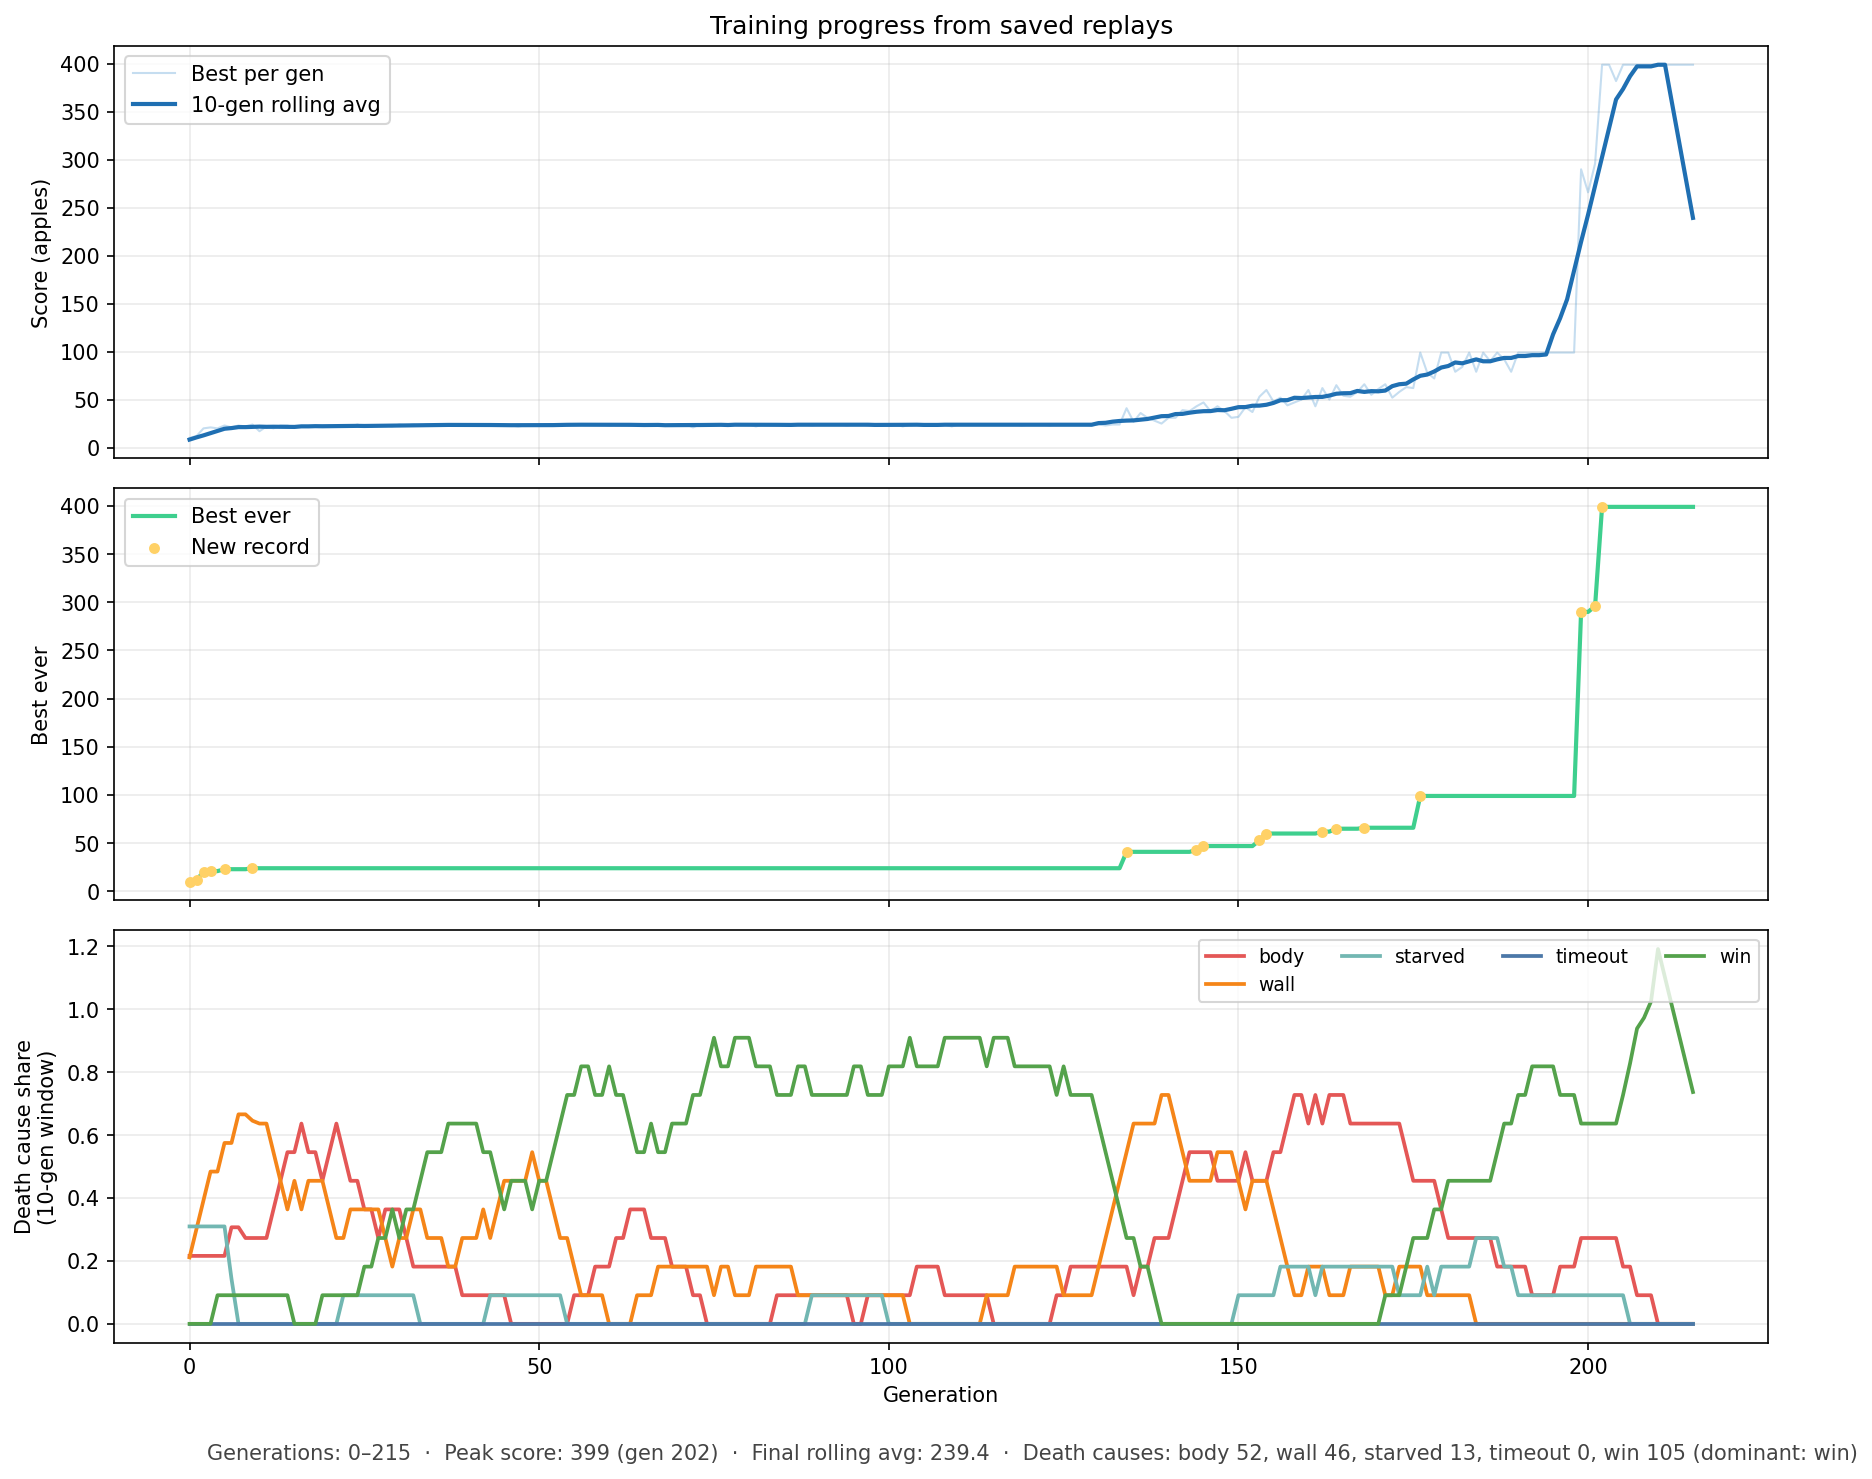
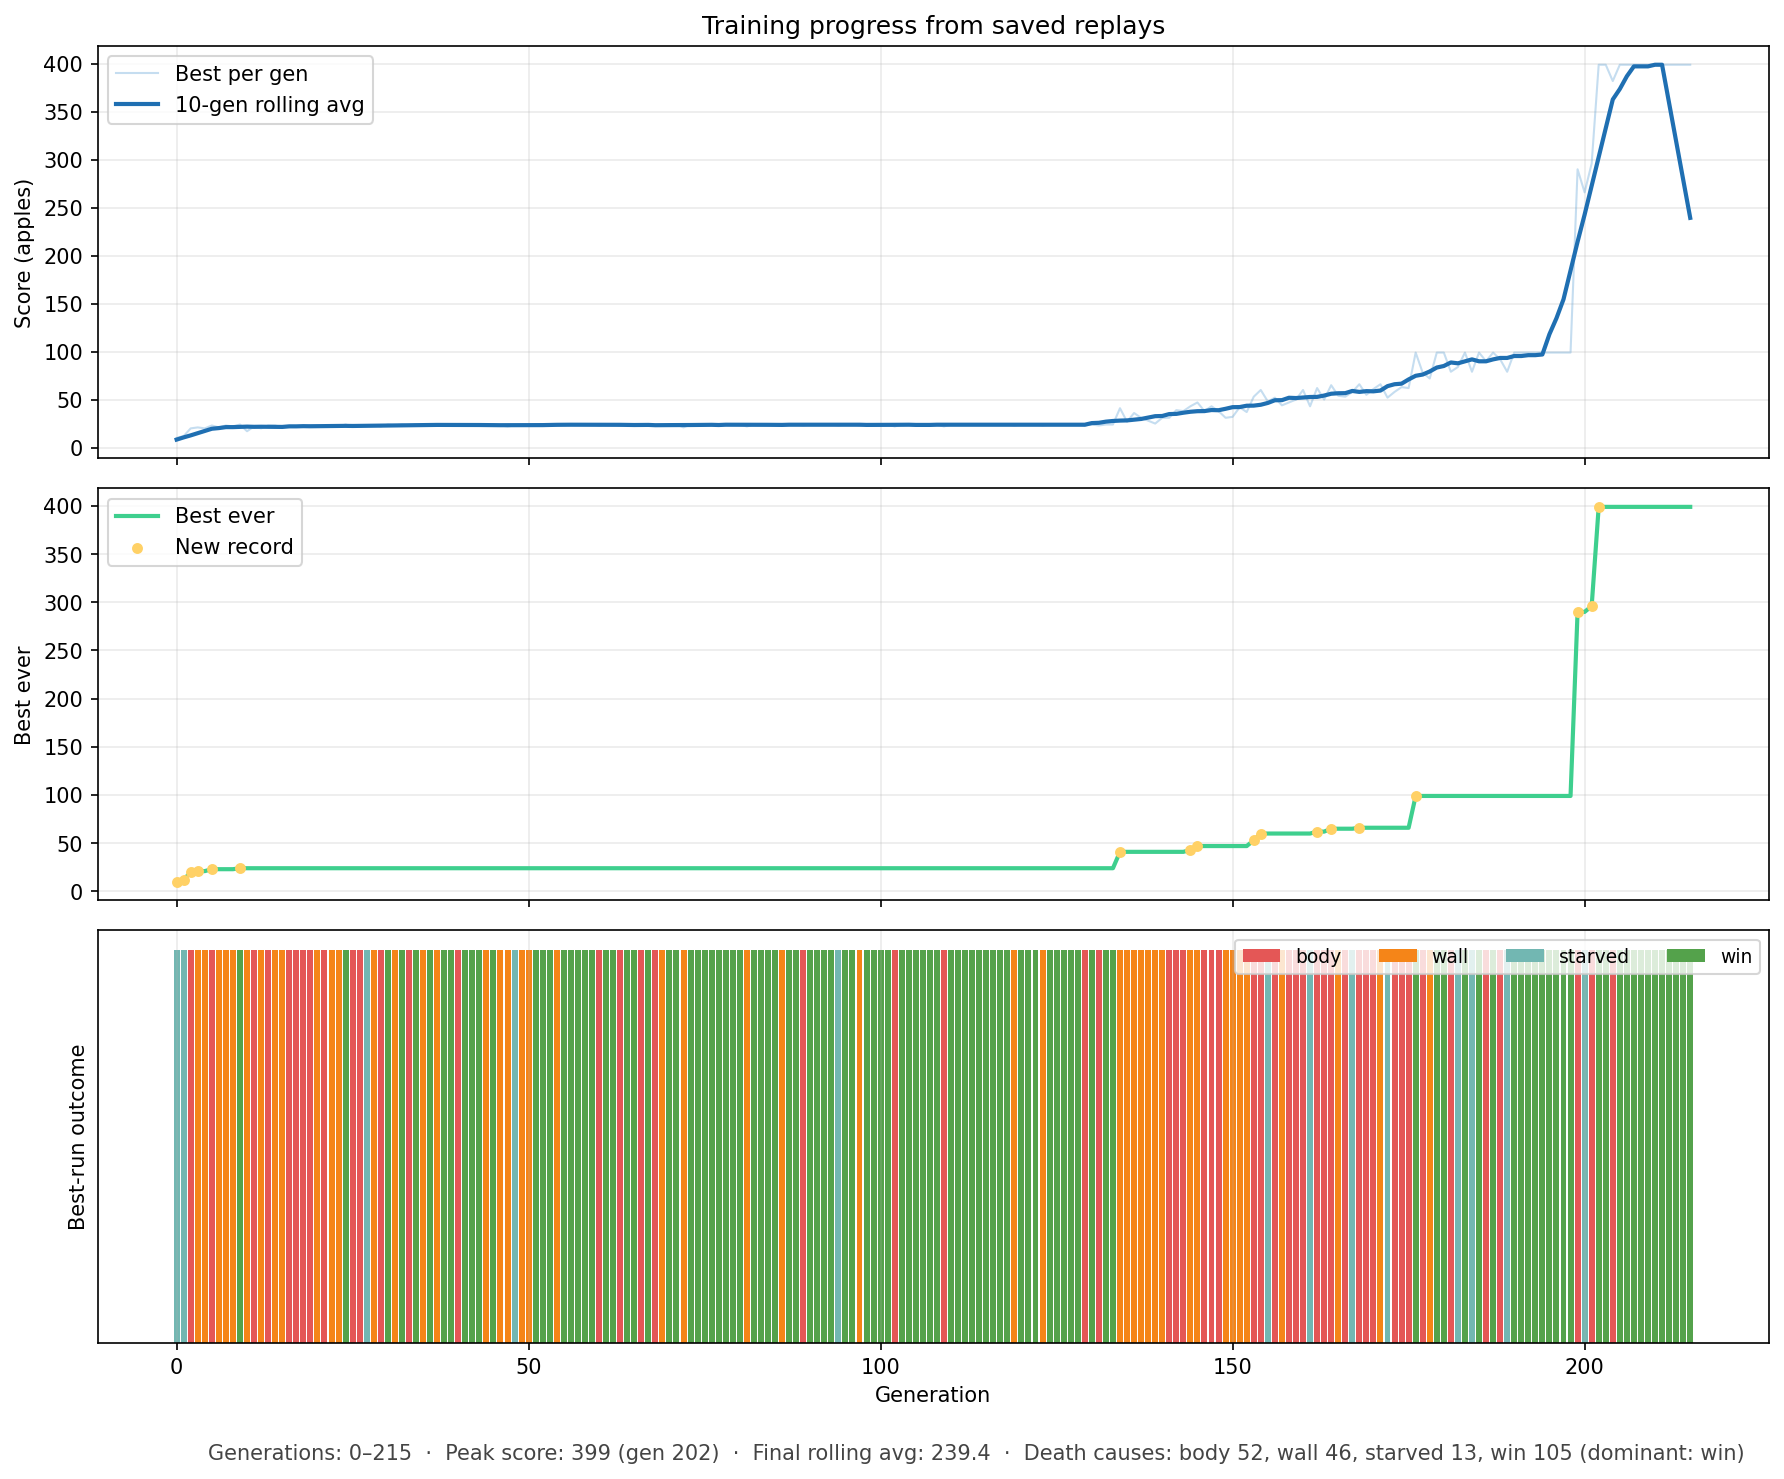
Replace death-cause rolling chart with per-generation bars and drop timeout.
Chart each generation with a color by best-run outcome, map legacy timeout to starved, and remove timeout from DeathCause and training UI.

diff --git a/site/src/sections/results.ts b/site/src/sections/results.ts
@@ -30,7 +30,7 @@ export function renderResults(container: HTMLElement, metrics: MetricRow[]): voi
         )
         .join("")}
     </div>
-    <img class="results-chart" src="data/training_chart.png" alt="Training progress chart showing best score by generation" />
+    <img class="results-chart" src="data/training_chart.png" alt="Training progress chart with score by generation and per-generation death outcomes" />
     <div class="results-table-wrap">
       <table class="results-table">
         <thead>

diff --git a/src/analyze_training.py b/src/analyze_training.py
@@ -25,6 +25,8 @@ import numpy as np
 import config
 from evolution.genome import Genome
 from game.game_state import DeathCause
+
+DEATH_CAUSES: tuple[DeathCause, ...] = ("body", "wall", "starved", "win")
 from models.grid import Grid
 from neural.network import NeuralNetwork
 from simulation.headless import HeadlessSimulator, Scenario
@@ -64,7 +66,9 @@ def load_records(replays_dir: Path, *, resim: bool) -> list[GenerationRecord]:
         death_cause: DeathCause | None = None
         if "death_cause" in data:
             raw = str(data["death_cause"])
-            if raw in ("body", "wall", "starved", "timeout", "win"):
+            if raw == "timeout":
+                raw = "starved"
+            if raw in DEATH_CAUSES:
                 death_cause = raw  # type: ignore[assignment]
 
         resim_score: int | None = None
@@ -126,22 +130,61 @@ def _rolling_mean(values: np.ndarray, window: int) -> np.ndarray:
     return np.convolve(values, kernel, mode="same")
 
 
-def _death_cause_counts(records: list[GenerationRecord], window: int) -> dict[str, np.ndarray]:
-    causes: tuple[DeathCause, ...] = ("body", "wall", "starved", "timeout", "win")
-    generations = np.array([record.generation for record in records], dtype=np.int64)
-    counts = {cause: np.zeros(len(records), dtype=np.float64) for cause in causes}
-    half = max(0, window // 2)
+def _bar_width(generations: np.ndarray) -> float:
+    if len(generations) <= 1:
+        return 0.8
+    gaps = np.diff(generations.astype(np.float64))
+    positive = gaps[gaps > 0]
+    if len(positive) == 0:
+        return 0.8
+    return max(0.35, float(np.min(positive)) * 0.85)
 
-    for index, record in enumerate(records):
+
+def _death_cause_colors() -> dict[str, str]:
+    return {
+        "body": "#e45756",
+        "wall": "#f58518",
+        "starved": "#72b7b2",
+        "win": "#54a24b",
+    }
+
+
+def _plot_death_cause_bars(
+    ax,
+    records: list[GenerationRecord],
+    generations: np.ndarray,
+) -> None:
+    from matplotlib.patches import Patch
+
+    colors = _death_cause_colors()
+    width = _bar_width(generations)
+    present_causes: set[str] = set()
+
+    for record in records:
         if record.death_cause is None:
             continue
-        start = max(0, index - half)
-        end = min(len(records), index + half + 1)
-        span = end - start
-        counts[record.death_cause][start:end] += 1.0 / span
+        present_causes.add(record.death_cause)
+        ax.bar(
+            record.generation,
+            1.0,
+            width=width,
+            color=colors[record.death_cause],
+            align="center",
+            edgecolor="none",
+        )
 
-    return {"generations": generations, **counts}
+    ax.set_ylim(0.0, 1.05)
+    ax.set_yticks([])
+    ax.set_ylabel("Best-run outcome")
+    ax.grid(True, alpha=0.25, axis="x")
 
+    handles = [
+        Patch(facecolor=colors[cause], label=cause)
+        for cause in DEATH_CAUSES
+        if cause in present_causes
+    ]
+    if handles:
+        ax.legend(handles=handles, loc="upper right", ncol=min(5, len(handles)), fontsize=9)
 
 def plot_analysis(
     records: list[GenerationRecord],
@@ -197,7 +240,7 @@ def plot_analysis(
     if has_causes:
         cause_totals = {
             cause: sum(1 for record in records if record.death_cause == cause)
-            for cause in ("body", "wall", "starved", "timeout", "win")
+            for cause in DEATH_CAUSES
         }
         dominant = max(cause_totals, key=cause_totals.get)
         summary_lines.append(
@@ -209,26 +252,8 @@ def plot_analysis(
 
     if has_causes:
         ax_cause = axes[2]
-        cause_data = _death_cause_counts(records, window)
-        colors = {
-            "body": "#e45756",
-            "wall": "#f58518",
-            "starved": "#72b7b2",
-            "timeout": "#4c78a8",
-            "win": "#54a24b",
-        }
-        for cause in ("body", "wall", "starved", "timeout", "win"):
-            ax_cause.plot(
-                cause_data["generations"],
-                cause_data[cause],
-                label=cause,
-                color=colors[cause],
-                linewidth=1.8,
-            )
-        ax_cause.set_ylabel(f"Death cause share\n({window}-gen window)")
+        _plot_death_cause_bars(ax_cause, records, generations)
         ax_cause.set_xlabel("Generation")
-        ax_cause.grid(True, alpha=0.25)
-        ax_cause.legend(loc="upper right", ncol=4, fontsize=9)
     else:
         ax_best.set_xlabel("Generation")
 
@@ -278,7 +303,7 @@ def print_summary(records: list[GenerationRecord], *, window: int) -> None:
         tail = records[-window:]
         counts = {
             cause: sum(1 for record in tail if record.death_cause == cause)
-            for cause in ("body", "wall", "starved", "timeout", "win")
+            for cause in DEATH_CAUSES
         }
         print(f"Last {window}-gen death causes (best snake): {counts}")
 

diff --git a/src/ui/training_dashboard.py b/src/ui/training_dashboard.py
@@ -17,12 +17,11 @@ from pathlib import Path
 import config
 from evolution.training_metrics import GenerationMetrics, TrainingStartInfo
 
-_DEATH_CAUSES = ("body", "wall", "starved", "timeout", "win")
+_DEATH_CAUSES = ("body", "wall", "starved", "win")
 _DEATH_COLORS = {
     "body": "#e45756",
     "wall": "#f58518",
     "starved": "#72b7b2",
-    "timeout": "#4c78a8",
     "win": "#54a24b",
 }
 _WIN_LINE_COLOR = "#54a24b"

diff --git a/src/game/game_state.py b/src/game/game_state.py
@@ -3,7 +3,7 @@
 from dataclasses import dataclass
 from typing import Literal
 
-DeathCause = Literal["wall", "body", "starved", "timeout", "win"]
+DeathCause = Literal["wall", "body", "starved", "win"]
 
 
 @dataclass(frozen=True, slots=True)

diff --git a/src/simulation/headless.py b/src/simulation/headless.py
@@ -215,7 +215,7 @@ class HeadlessSimulator:
         current = game.snake.direction
         while game.alive:
             if self._max_steps is not None and steps >= self._max_steps:
-                return game.score, steps, "timeout", shaping_bonus, False, 0.0, steps_to_first_eat
+                return game.score, steps, "starved", shaping_bonus, False, 0.0, steps_to_first_eat
             prev_score = game.score
             prev_dist = _manhattan_distance(game.snake.head(), game.food.position)
             current, hidden, _ = decide_step(